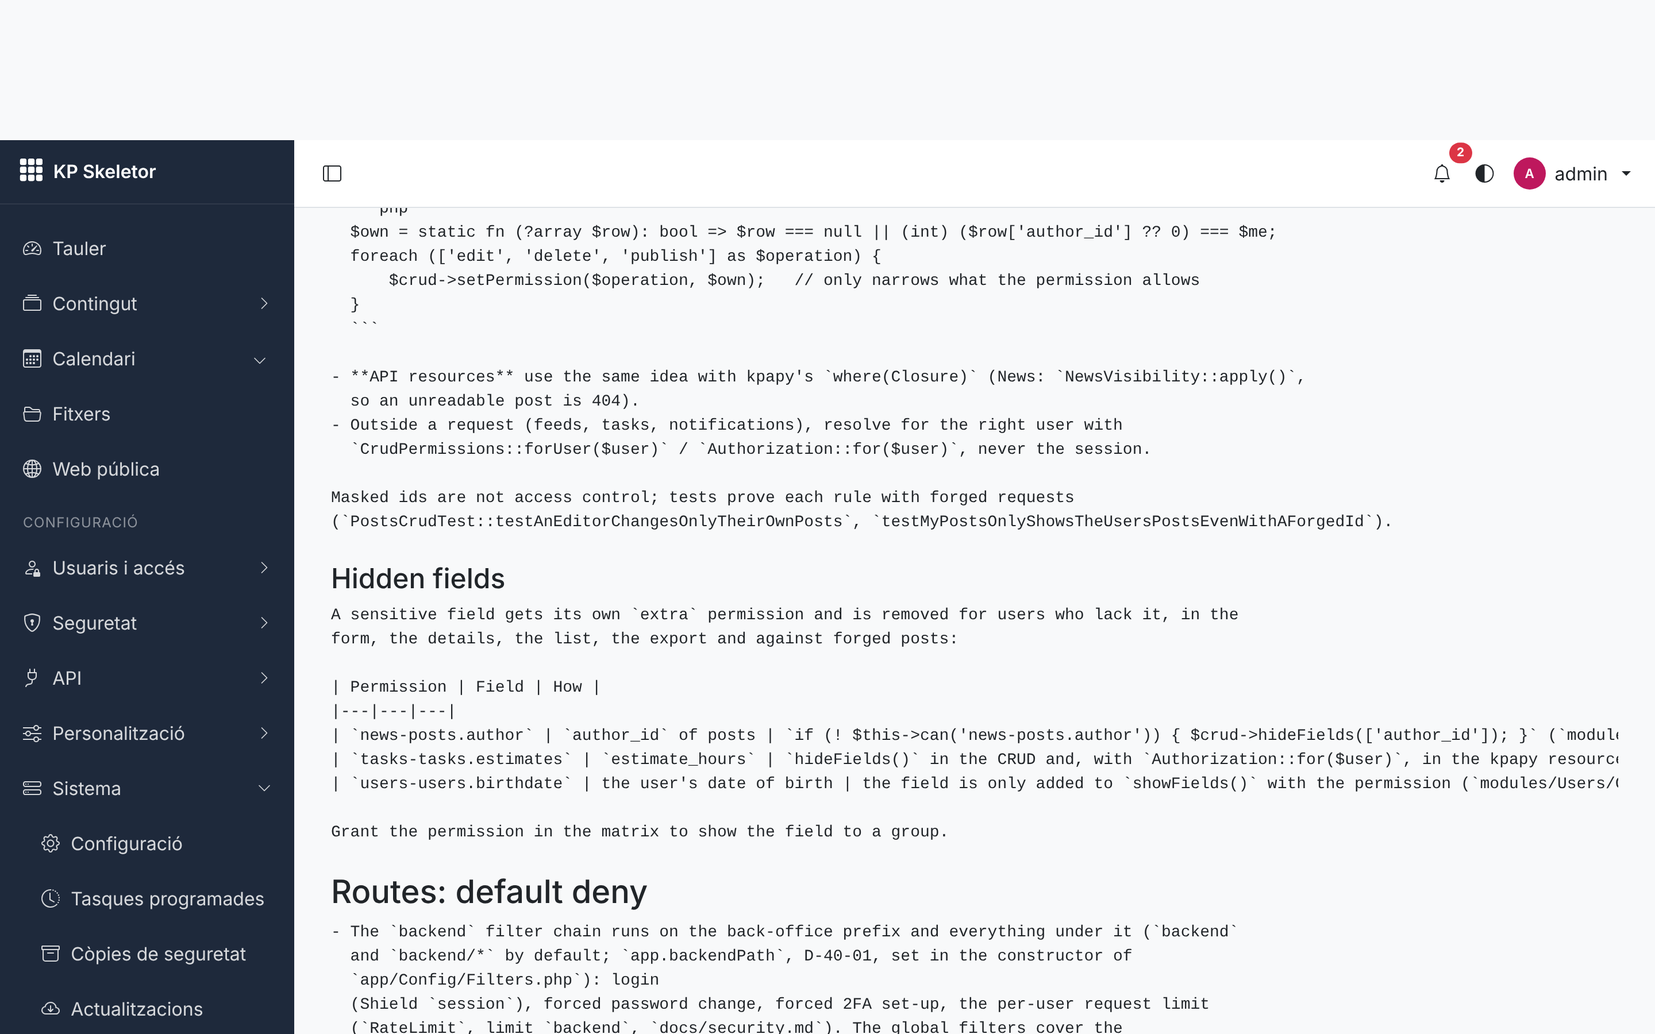
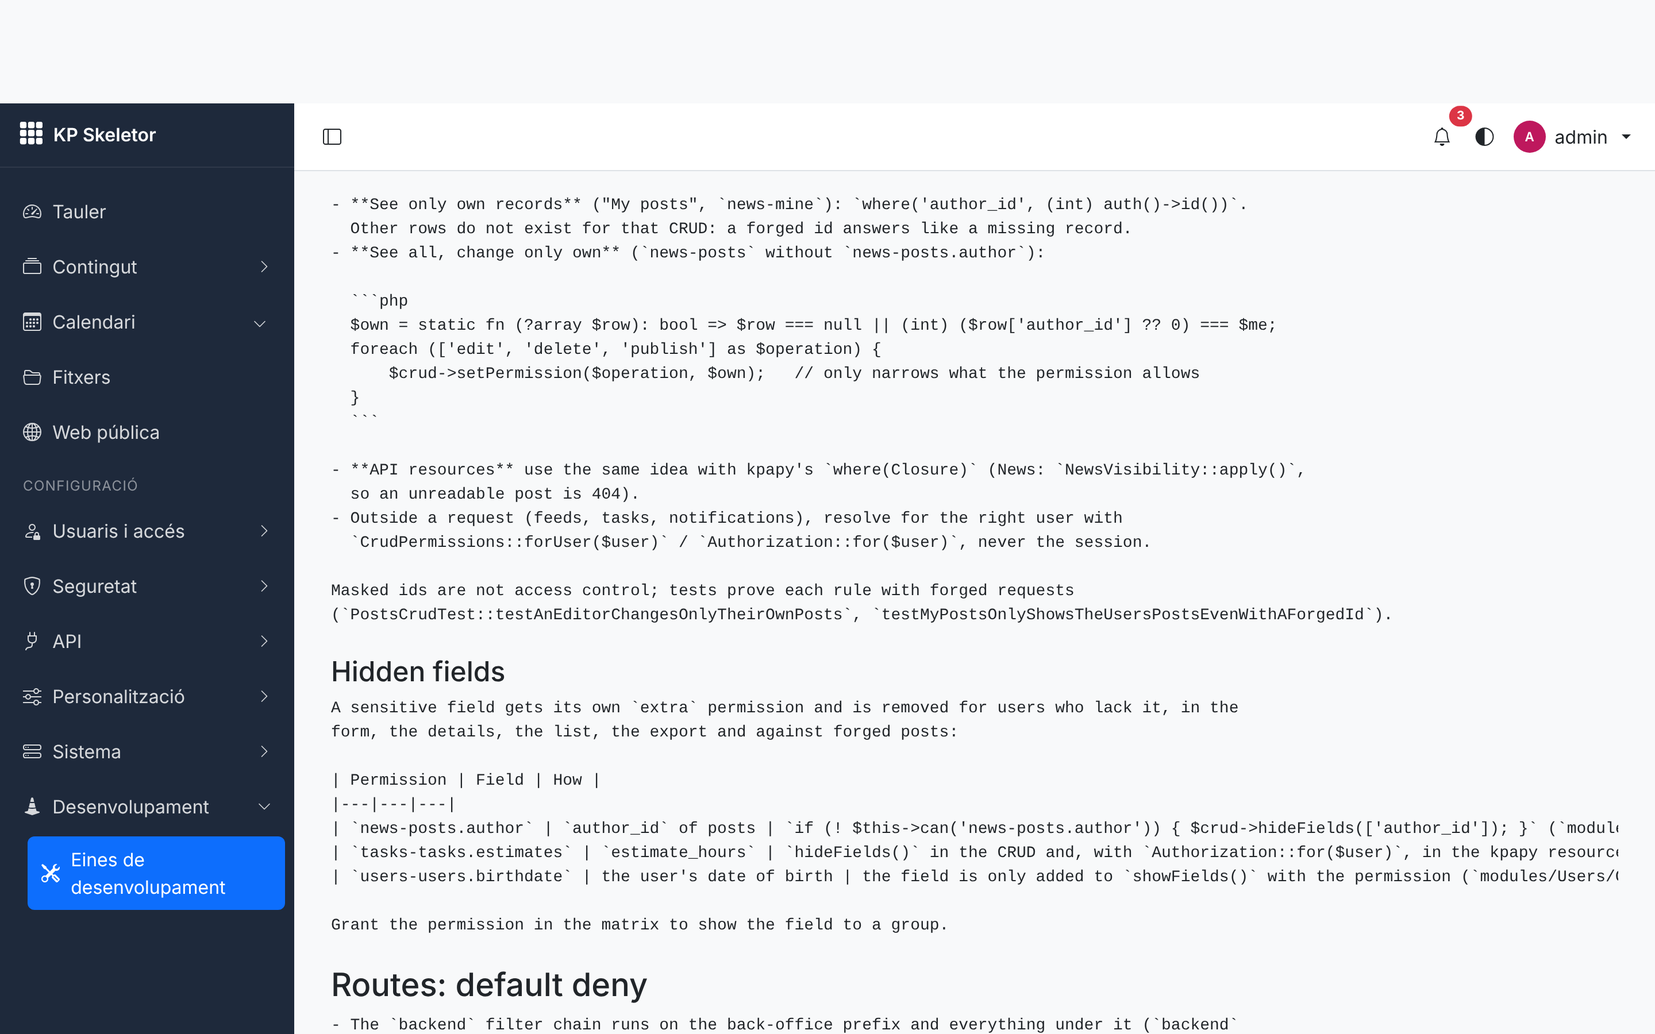
Session 41: Devtools in its own settings group Desenvolupament (D-41-04, owner's decision)
The module declares group.development; like every group it is shown only while its entry is
visible (superadmin, development, local request). DevtoolsMenuTest; the Menus editor test
lists the new group; docs, CLAUDE.md, decisions and the report updated; screenshots retaken.

Claude-Session: https://claude.ai/code/session_01BM6RUA4tDGXNz7DiM8YJeW

diff --git a/modules/Devtools/Tests/DevtoolsMenuTest.php b/modules/Devtools/Tests/DevtoolsMenuTest.php
@@ -1,0 +1,77 @@
+<?php
+
+declare(strict_types=1);
+
+namespace Modules\Devtools\Tests;
+
+use CodeIgniter\Shield\Entities\User;
+use Modules\Core\Menus\MenuBuilder;
+use Modules\Core\Menus\MenuEntry;
+use Modules\Core\Modules\CacheInvalidator;
+use Modules\Core\Modules\ModuleDiscovery;
+use Modules\Core\Registry\DeclarationRegistry;
+
+/**
+ * The menu entry in its own settings group `group.development` (D-41-04): the group is a heading
+ * shown only while its entry is visible, so only a superadmin sees it, and only where the routes
+ * exist (development, local request).
+ *
+ * @internal
+ */
+final class DevtoolsMenuTest extends DevtoolsTestCase
+{
+    protected function setUp(): void
+    {
+        parent::setUp();
+        $manifests = [];
+
+        foreach ((new ModuleDiscovery())->discover() as $name => $module) {
+            if ($module->isValid() && $module->manifest !== null) {
+                $manifests[$name] = $module->manifest;
+            }
+        }
+
+        $registry = new DeclarationRegistry();
+        $registry->store($registry->build($manifests));
+        (new CacheInvalidator())->invalidate(['menus', 'modules']);
+    }
+
+    public function testTheGroupIsShownToTheSuperadminWhereTheRoutesExist(): void
+    {
+        $this->withDevtoolsRoutes();
+        $group = $this->group($this->createUser('root@example.com', 'superadmin'));
+
+        $this->assertNotNull($group);
+        $this->assertNull($group->url(), 'A heading without a link.');
+        $this->assertSame(['Devtools.tools'], array_map(static fn (MenuEntry $e): string => $e->key, $group->children));
+        $this->assertSame(lang('Devtools.menu.group'), $group->text());
+    }
+
+    public function testNobodyElseSeesAnEmptyGroup(): void
+    {
+        $this->withDevtoolsRoutes();
+
+        foreach (['admin', 'editor', 'user'] as $groupName) {
+            $this->assertNull($this->group($this->createUser($groupName . '@example.com', $groupName)), $groupName);
+        }
+    }
+
+    public function testWithoutTheRoutesNotEvenTheSuperadminSeesIt(): void
+    {
+        // The suite runs in `testing`: Config/Routes.php registered nothing.
+        service('routes')->loadRoutes();
+
+        $this->assertNull($this->group($this->createUser('root@example.com', 'superadmin')));
+    }
+
+    private function group(User $user): ?MenuEntry
+    {
+        foreach ((new MenuBuilder())->tree($user)['settings'] ?? [] as $entry) {
+            if ($entry->key === 'group.development') {
+                return $entry;
+            }
+        }
+
+        return null;
+    }
+}

diff --git a/modules/Devtools/Config/Module.php b/modules/Devtools/Config/Module.php
@@ -40,8 +40,13 @@ final class Module extends ModuleManifest
     /** Nobody: superadmins hold every permission (D-41-03). */
     public array $defaultGrants = [];
 
+    /**
+     * Its own group in the settings zone, after the Core's (D-41-04): shown only while one of its
+     * entries is visible, so nobody but a superadmin in development ever sees it.
+     */
     public array $menu = [
-        ['resource' => 'tools', 'label' => 'Devtools.menu.tools', 'icon' => 'bi bi-tools', 'order' => 99, 'zone' => 'settings', 'parent' => 'group.system'],
+        ['group' => 'group.development', 'label' => 'Devtools.menu.group', 'icon' => 'bi bi-cone-striped', 'order' => 90, 'zone' => 'settings'],
+        ['resource' => 'tools', 'label' => 'Devtools.menu.tools', 'icon' => 'bi bi-tools', 'order' => 1, 'zone' => 'settings', 'parent' => 'group.development'],
     ];
 
     /** Nothing to back up: Devtools keeps no data. */

diff --git a/modules/Menus/Tests/SettingsGroupsTest.php b/modules/Menus/Tests/SettingsGroupsTest.php
@@ -78,7 +78,9 @@ final class SettingsGroupsTest extends MenusTestCase
         $tree   = (new BackendLayout())->tree(null);
         $groups = array_values(array_filter($tree['settings'], static fn (array $node): bool => $node['kind'] === 'group'));
 
-        $this->assertSame(array_keys(self::GROUPS), array_column($groups, 'key'));
+        // The editor lists every declared group of the enabled modules: the fixture enables
+        // Devtools too, whose own group comes last (D-41-04; disabled outside development).
+        $this->assertSame([...array_keys(self::GROUPS), 'group.development'], array_column($groups, 'key'));
         $this->assertSame('', $groups[0]['permission']);
         $this->assertSame(['Users.users', 'Users.groups', 'users-matrix'], array_column($groups[0]['children'], 'key'));
 

diff --git a/modules/Devtools/Language/es/Devtools.php b/modules/Devtools/Language/es/Devtools.php
@@ -8,7 +8,7 @@ return [
     'banner'     => 'Herramientas de desarrollo: nunca activadas en producción.',
     'bannerHelp' => 'Solo responden en este ordenador (http://localhost) mientras CI_ENVIRONMENT es development.',
     'module'     => ['description' => 'Herramientas solo para desarrollo: recetas de CRUD y, más adelante, el generador de código y el constructor de paquetes.'],
-    'menu'       => ['tools' => 'Herramientas de desarrollo'],
+    'menu'       => ['group' => 'Desarrollo', 'tools' => 'Herramientas de desarrollo'],
     'res'        => ['tools' => 'Herramientas de desarrollo'],
     'perm'       => ['write' => 'Escribir ficheros y ejecutar órdenes desde las herramientas de desarrollo'],
     'locks'      => [

diff --git a/modules/Devtools/Language/ca/Devtools.php b/modules/Devtools/Language/ca/Devtools.php
@@ -8,7 +8,7 @@ return [
     'banner'     => 'Eines de desenvolupament: mai activades en producció.',
     'bannerHelp' => 'Només responen en aquest ordinador (http://localhost) mentre CI_ENVIRONMENT és development.',
     'module'     => ['description' => 'Eines només per a desenvolupament: receptes de CRUD i, més endavant, el generador de codi i el constructor de paquets.'],
-    'menu'       => ['tools' => 'Eines de desenvolupament'],
+    'menu'       => ['group' => 'Desenvolupament', 'tools' => 'Eines de desenvolupament'],
     'res'        => ['tools' => 'Eines de desenvolupament'],
     'perm'       => ['write' => 'Escriure fitxers i executar ordres des de les eines de desenvolupament'],
     'locks'      => [

diff --git a/modules/Devtools/Language/en/Devtools.php b/modules/Devtools/Language/en/Devtools.php
@@ -8,7 +8,7 @@ return [
     'banner'     => 'Development tools: never enabled in production.',
     'bannerHelp' => 'They answer only on this computer (http://localhost) while CI_ENVIRONMENT is development.',
     'module'     => ['description' => 'Development-only tools: CRUD recipes, and later the code generator and the package builder.'],
-    'menu'       => ['tools' => 'Development tools'],
+    'menu'       => ['group' => 'Development', 'tools' => 'Development tools'],
     'res'        => ['tools' => 'Development tools'],
     'perm'       => ['write' => 'Write files and run commands from the development tools'],
     'locks'      => [

diff --git a/deploy-status/41-devtools/README.md b/deploy-status/41-devtools/README.md
@@ -46,7 +46,7 @@ D-41-04, D-41-05 accepted (`docs/decisions.md`).
 | Language `Core.php`, `SecurityCheck.php` (ca/es/en) | Messages above; `Core.activity.devonly_disabled` |
 
 **Module `modules/Devtools/`:** `Config/Module.php` (single resource `tools`, prefix `devtools`,
-extra `write`, no grants, menu `settings` › `group.system`), `Config/Routes.php`,
+extra `write`, no grants, menu: its own settings group `group.development` with the entry), `Config/Routes.php`,
 `Config/Registrar.php` (alias `devtools`), `Filters/LocalOnly.php`, `Routing/DevtoolsRoutes.php`
 (`VIEW`, `WRITE`, `define()`), `Controllers/{Home,Recipes,Docs}.php`, `Recipes/RecipeBook.php`,
 `Recipes/DocPage.php`, `Views/{index,recipes,docs,_banner}.php`, `Assets/js/copy.js`, language
@@ -62,7 +62,11 @@ files, `CLAUDE.md`. No tables, settings or API.
 
 ## Decisions and deviations
 
-- D-41-04 (accepted): the menu entry goes under the Core's **Sistema** group, not a new group.
+- D-41-04 (decided by the owner on the pull request): the entry is in its own settings group
+  **Desenvolupament** (`group.development`, declared by the module, order 90). A group is shown
+  only while one of its entries is visible, so admins and other users never see an empty heading,
+  and nobody sees it outside development (no route). The Menus editor lists it like any declared
+  group of an enabled module (Devtools is disabled outside development).
 - D-41-05 (accepted): route filters run after the `backend` chain, so with the filter alone a
   signed-out request from the network got the login redirect (revealing the URLs). The routes are
   therefore also **not registered** for non-local web requests (console still sees them); the
@@ -77,7 +81,7 @@ files, `CLAUDE.md`. No tables, settings or API.
 INSTALL_ADMIN_PASSWORD='…' php spark app:install --env=development --url=http://localhost:8080/ --db=sqlite --demo --2fa=none --no-interaction
 php spark modules:enable Devtools
 php spark serve
-# sign in as the superadmin → Configuració › Sistema › Eines de desenvolupament
+# sign in as the superadmin → Configuració › Desenvolupament › Eines de desenvolupament
 # http://localhost:8080/backend/devtools/recipes
 ```
 
@@ -109,7 +113,7 @@ Playwright against `php spark serve`, demo data, superadmin, device scale factor
 
 | File | Caption |
 |---|---|
-| `screenshots/01-devtools-home.png` | Devtools home: banner, the CRUD recipes tool and the six locks; menu entry under Sistema |
+| `screenshots/01-devtools-home.png` | Devtools home: banner, the CRUD recipes tool and the six locks; menu entry in its own group, Desenvolupament |
 | `screenshots/02-recipes.png` | CRUD recipes, full page: contents and the 16 cards (what, when, code, source, doc link) |
 | `screenshots/03-recipes-dark.png` | Recipes in dark mode |
 | `screenshots/04-recipes-phone.png` | Recipes at phone width (390 px) |
@@ -122,7 +126,7 @@ New tests: `modules/Devtools/Tests/DevtoolsLocksTest.php` (manifest; no route ou
 development; loopback addresses/hosts accepted; network clients, `X-Forwarded-For` and foreign
 hosts → 404; disabled module → 404; `devtools.view` needed, admins refused; every route has
 `VIEW`/`WRITE`; a write route needs `devtools.write` and re-authentication and answers 404 from the
-network; no inline code in the views), `LocalOnlyTest.php` (18 cases), `RecipesTest.php` (every
+network; no inline code in the views), `LocalOnlyTest.php` (18 cases), `DevtoolsMenuTest.php` (own group shown to the superadmin where the routes exist, never empty for admins/editors/users, absent without the routes), `RecipesTest.php` (every
 recipe's source file, doc heading and texts in ca/es/en exist; page renders for the superadmin,
 403 for others; code escaped; docs viewer refuses unknown names), `modules/Core/Tests/DevelopmentOnlyTest.php`
 (manifest key, enable refused also as a dependency, sync disables and logs, first sync, Modules
@@ -133,11 +137,11 @@ Results (SQLite, PHP 8.3):
 
 | Check | Result |
 |---|---|
-| `vendor/bin/phpunit` | **1478 tests, 19506 assertions**, 12 min 59 s: 1 failure, `ReauthTest::testPostIsNotReplayedAndJsonGets401`, which also failed on `main` before this session (baseline: 1432 tests, the same failure). Cause: the owner's commit `edac5e2` ("Hide index.php from site URIs") and a test that hard-coded `index.php/auth/reauth`; fixed in this session (it now compares with `site_url('auth/reauth')`), `ReauthTest` 14/14 OK afterwards |
+| `vendor/bin/phpunit` | **OK (1481 tests, 19522 assertions)**, 13 min 07 s, after the menu-group change (D-41-04). The first run (1478 tests) had one failure, `ReauthTest::testPostIsNotReplayedAndJsonGets401`, also red on `main` since commit `edac5e2` (hidden `index.php`; the test hard-coded `index.php/auth/reauth`), fixed in this session |
 | `vendor/bin/phpstan analyse` | No errors (level 6) |
 | `vendor/bin/php-cs-fixer fix --dry-run` | 0 of 1056 files to fix |
 | `php spark modules:sync` | OK (Devtools installed disabled; enabled with `modules:enable` in development) |
-| `php spark permissions:check` | Permisos correctes: 171 permisos, 349 rutes |
+| `php spark permissions:check` | Permisos correctes: 171 permisos, 349 rutes (also after the menu-group change) |
 | `php spark csp:check` | No inline scripts, handlers or styles |
 | `php spark assets:publish --check` | Up to date |
 | `php spark security:check` (development) | `installation.devtools` info; the 6 errors are the development install's own (environment, debug, HTTPS ×3, demo data) |

diff --git a/docs/decisions.md b/docs/decisions.md
@@ -297,7 +297,7 @@ questions") and from each session's report; they are answered with `deploy/decid
 | D-41-01 | 41 | A `Devtools` module only for development, with the manifest key `$developmentOnly` (decide) | Applied (decided) |
 | D-41-02 | 41 | In development, Devtools may write module code from the back office (decide) | Decided |
 | D-41-03 | 41 | Devtools answers only local requests, to the superadmin, with re-authentication for writes (decide) | Applied (decided) |
-| D-41-04 | 41 | Devtools menu entry under the Core's Sistema group | Accepted (proposal) |
+| D-41-04 | 41 | Devtools menu entry in its own settings group "Desenvolupament" | Applied (decided) |
 | D-41-05 | 41 | Devtools routes not registered for non-local web requests; a docs viewer for the recipes' links | Accepted (proposal) |
 | D-42-01 | 42 | `nikic/php-parser` as a development dependency to edit existing manifests and routes (decide) | Decided |
 | D-43-01 | 43 | Signing packages from the local Devtools form, with safeguards for the key (decide) | Decided |
@@ -3034,13 +3034,14 @@ questions") and from each session's report; they are answered with `deploy/decid
 - **Status:** Decided
 - **Decision (2026-11-19):** «amb tots els panys». As proposed. **Must change:** session 41.
 
-## D-41-04 — Devtools menu entry under the Core's Sistema group
+## D-41-04 — Devtools menu entry in its own settings group "Desenvolupament"
 
-- **Where:** `deploy/41-devtools.md` ("under the **Sistema** group of D-38-01 — or its own group"); `modules/Devtools/Config/Module.php`.
+- **Where:** `deploy/41-devtools.md` ("under the **Sistema** group of D-38-01 — or its own group"); `modules/Devtools/Config/Module.php`; D-38-01 (settings entries go in one of the Core's groups).
 - **Problem:** Where the single Devtools entry goes in the settings zone.
-- **Proposal (built):** `'zone' => 'settings', 'parent' => 'group.system'` (order 99, last): one entry does not justify a new group, and D-38-01 says settings entries go in one of the Core's groups. Sessions 42–43 add their screens inside Devtools, not as menu entries.
-- **Alternatives:** A) A new Core group "Desenvolupament" (a Core change for one dev-only entry).
-- **Status:** Accepted (proposal)
+- **Proposal (first build):** under the Core's `group.system` (order 99): one entry does not justify a new group.
+- **Alternatives:** A) Its own group "Desenvolupament", declared by the module (no Core change; a group is shown only while one of its entries is visible).
+- **Status:** Applied (decided)
+- **Decision (2026-11-19, on pull request #59):** «posar l'eina dins group development … sí, fes-ho». Alternative A: the manifest declares `['group' => 'group.development', 'label' => 'Devtools.menu.group', 'icon' => 'bi bi-cone-striped', 'order' => 90, 'zone' => 'settings']` and the entry has `'parent' => 'group.development'`. Nobody but a superadmin on a development copy sees it (no permission or no route: the group is hidden). The only exception to D-38-01's rule, recorded in `CLAUDE.md` and `docs/menus.md`. Test: `modules/Devtools/Tests/DevtoolsMenuTest.php`.
 
 ## D-41-05 — Devtools routes not registered for non-local web requests; a docs viewer for the recipes' links
 

diff --git a/docs/progress.md b/docs/progress.md
@@ -130,7 +130,7 @@ map only lists URLs); no CDN; English code and docs, UI texts in ca/es/en (`Lang
 ## Decisions
 
 - **40:** configurable back-office path (`deploy-status/40-backend-path/`): D-40-01 applied (`app.backendPath`, `app:install --backend-path`, the web installer field, `php spark app:backend-path`); D-40-02 accepted (stored back-office links use the canonical prefix `backend/…`, resolved when shown).
-- **41:** Devtools module (`deploy-status/41-devtools/`, `docs/devtools.md`): D-41-01 and D-41-03 applied (manifest key `$developmentOnly`, the locks); D-41-04 (menu under Sistema) and D-41-05 (routes not registered for non-local web requests; plain-text docs viewer for the recipes' links) accepted. D-41-02, D-42-01, D-43-01 are for sessions 42–43.
+- **41:** Devtools module (`deploy-status/41-devtools/`, `docs/devtools.md`): D-41-01 and D-41-03 applied (manifest key `$developmentOnly`, the locks); D-41-04 (own settings group Desenvolupament, decided by the owner) and D-41-05 (routes not registered for non-local web requests; plain-text docs viewer for the recipes' links) accepted. D-41-02, D-42-01, D-43-01 are for sessions 42–43.
 - **38:** settings menu groups, public account link and password reveal (`deploy-status/38-settings-menu/`): five Core groups in the `settings` zone (D-38-01 applied), declared with the new manifest key `group` (D-38-02 decided by the owner as built: the key and the names `group.<name>`); `AccountLink` decides "Entra"/"Administració"/"El meu compte" from the generated menu (D-38-03 accepted); the web installer's password fields wait for session 39 (D-38-04 accepted); order and icons inside the groups (D-38-05 accepted). Decisions 44 (before this session): D-44-02 decided as proposed.
 - **37:** content languages from the site's locales (`deploy-status/37-content-locales/`): `ContentTranslations` reads `Locales` (`locales()`, `codes()`, `defaultLocale()`, `defaultName()`, `crudOptions()`, `apiOptions()`, `defaultText()`, `keepUnavailable()`), the constants `LOCALES`/`FALLBACK_LOCALE` removed; News, Pages, Events, Menus, Tasks and Users no longer name a language; `Config\Kpapy::$localeFallbacks` = the site's default; `Core.defaultLocale`/`Core.locales` offer every supported locale (`optionsProvider`). D-37-01 accepted (proposal). Added at the owner's request (D-37-02, decided: language in the URL): public URLs carry the language (`/es/…`, none for the default; `LocaleRouter`, `LocaleUrls`, the application's `site_url()`, `Config\LocaleUrls`), a public language switch with links to the same page in each language (theme option `languageSwitch`), `hreflang` alternates and a sitemap per translation. A first version (cookie + profile) was replaced the same day.
 - **36:** final acceptance and release (`deploy-status/36-release/`): criteria 1–13 pass on fresh SQLite, MariaDB and a production-like nginx/PHP-FPM/HTTPS site (table above); fixes: `app:install --demo` in production on a fresh clone, the bell's accessible name (WCAG 2.5.3), `public/uploads` writable in `docs/web-server.md`; Core 1.0.0, modules require `Core ^1.0`, `CHANGELOG.md` 1.0.0, the release and signing procedure in `docs/updates.md`. No new decision entries.

diff --git a/docs/devtools.md b/docs/devtools.md
@@ -13,7 +13,7 @@ php spark modules:enable Devtools   # installed disabled ($enabledByDefault = fa
 php spark serve                     # http://localhost:8080
 ```
 
-Sign in as a **superadmin** and open *Configuració › Sistema › Eines de desenvolupament*
+Sign in as a **superadmin** and open *Configuració › Desenvolupament › Eines de desenvolupament*
 (`backend/devtools`, under the back-office prefix):
 
 - **CRUD recipes** (`backend/devtools/recipes`): one card per variant of a back-office CRUD and
@@ -39,6 +39,10 @@ Every lock has a test (`modules/Devtools/Tests/DevtoolsLocksTest.php`, `LocalOnl
 | 4 | Local requests only: client `REMOTE_ADDR` in `127.0.0.0/8` or `::1` (proxy headers are never trusted) **and** `Host` `localhost` or a loopback address; otherwise 404. The routes are not registered for other web requests (so no login redirect reveals them), and the `devtools` route filter checks again | `Config/Routes.php`, `Filters/LocalOnly.php` |
 | 5 | Resource `devtools` (single resource, prefix override): `devtools.view` (screens) and `devtools.write` (writes files or runs commands), granted to nobody — superadmins hold every permission. Write routes use `DevtoolsRoutes::WRITE`: `devtools`, `can:devtools.write`, `reauth`, `ratelimit:forms` | `Config/Module.php`, `Routing/DevtoolsRoutes.php` |
 | 6 | Packaging: it is part of the repository and of release archives (`docs/updates.md`), made inert by 1–4 | `docs/security.md` |
+
+The menu entry is in its own settings group, **Desenvolupament** (`group.development`, declared by
+the module, D-41-04): a group is shown only while one of its entries is visible, so nobody but a
+superadmin on a development copy ever sees it.
 
 Every Devtools screen shows the banner "Development tools: never enabled in production".
 

diff --git a/modules/Devtools/CLAUDE.md b/modules/Devtools/CLAUDE.md
@@ -12,7 +12,8 @@ D-41-03): the CRUD recipes (session 41), the code generator (session 42) and the
 - Single resource `tools` with the prefix override `devtools` (page + extra `write`):
   `devtools.view` (screens), `devtools.write` (anything that writes files or runs commands).
 - Default grants: **none** (superadmins hold every permission; D-41-03).
-- Menu: settings zone, `parent => group.system`, order 99 (D-41-04); route name `devtools`.
+- Menu: its own settings group `group.development` ("Desenvolupament", order 90, declared in the
+  manifest; shown only while its entry is visible) with the entry `tools` (D-41-04); route name `devtools`.
 - No tables, settings, widgets, tasks, notifications, API, CSP sources or outbound hosts.
 - Manifest: `$developmentOnly = true`, `$enabledByDefault = false`, requires Core and Auth (`reauth`).
 
@@ -38,7 +39,7 @@ D-41-03): the CRUD recipes (session 41), the code generator (session 42) and the
 
 ## Decisions
 
-D-41-01 … D-41-03 (decided), D-41-04 (menu under Sistema), D-41-05 (routes not registered for
+D-41-01 … D-41-03 (decided), D-41-04 (own menu group Desenvolupament), D-41-05 (routes not registered for
 non-local requests; docs viewer); D-41-02, D-42-01, D-43-01 apply to sessions 42–43.
 
 ## Open tasks

diff --git a/CLAUDE.md b/CLAUDE.md
@@ -97,7 +97,8 @@ Run the tests, PHPStan and php-cs-fixer before every commit; show the results.
 - **Menus:** back-office entries only in the manifest `$menu` (resource or route + permission,
   `zone` `sidebar`/`settings`/`user`, `parent`, `order`); a `settings` entry goes in one of the
   Core's groups (`'parent' => 'group.access'|'group.security'|'group.api'|'group.customisation'|'group.system'`,
-  D-38-01); the menu is generated, filtered by permission and cached per group set
+  D-38-01; the one exception is the development-only `Devtools`, in its own `group.development`,
+  D-41-04); the menu is generated, filtered by permission and cached per group set
   (`docs/menus.md`). Password inputs get the Core's show/hide button by themselves
   (`data-no-reveal` to opt out; `docs/frontend.md`). Security headers, rate limits
   (`ratelimit:<limit>`, `RateLimiter`), `safe_redirect()` and `OutboundClient`: `docs/security.md`,
